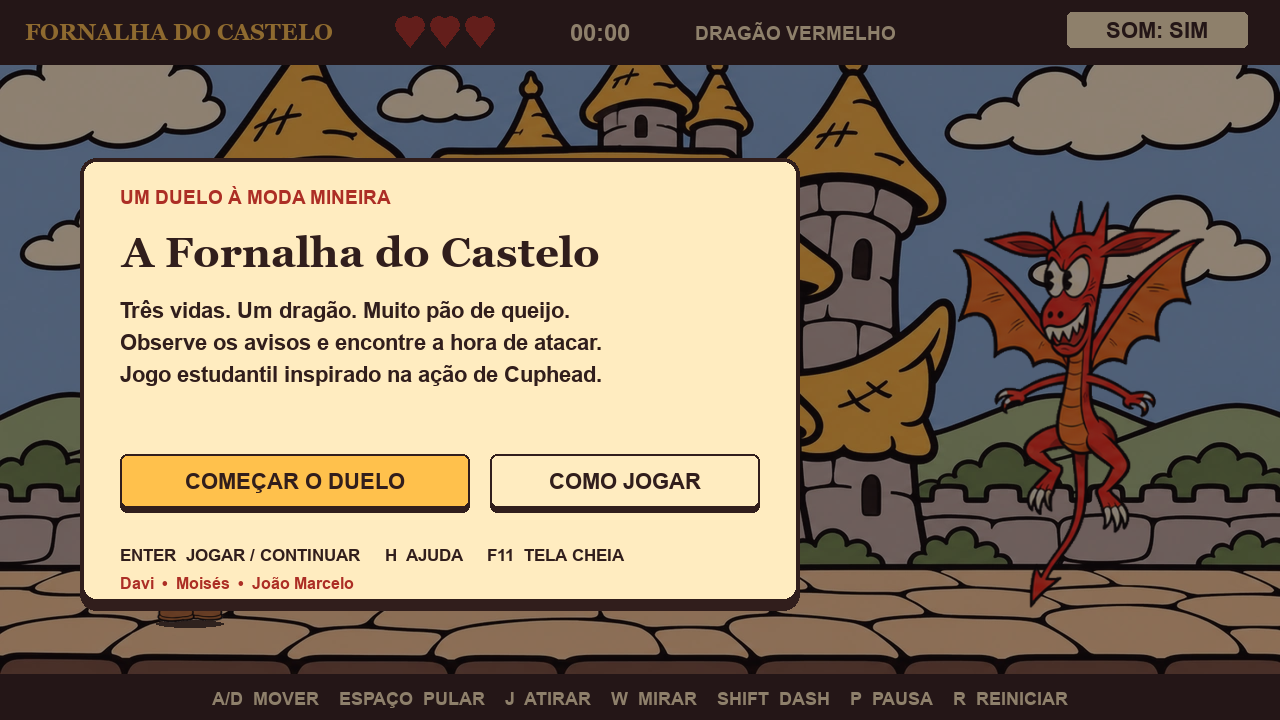
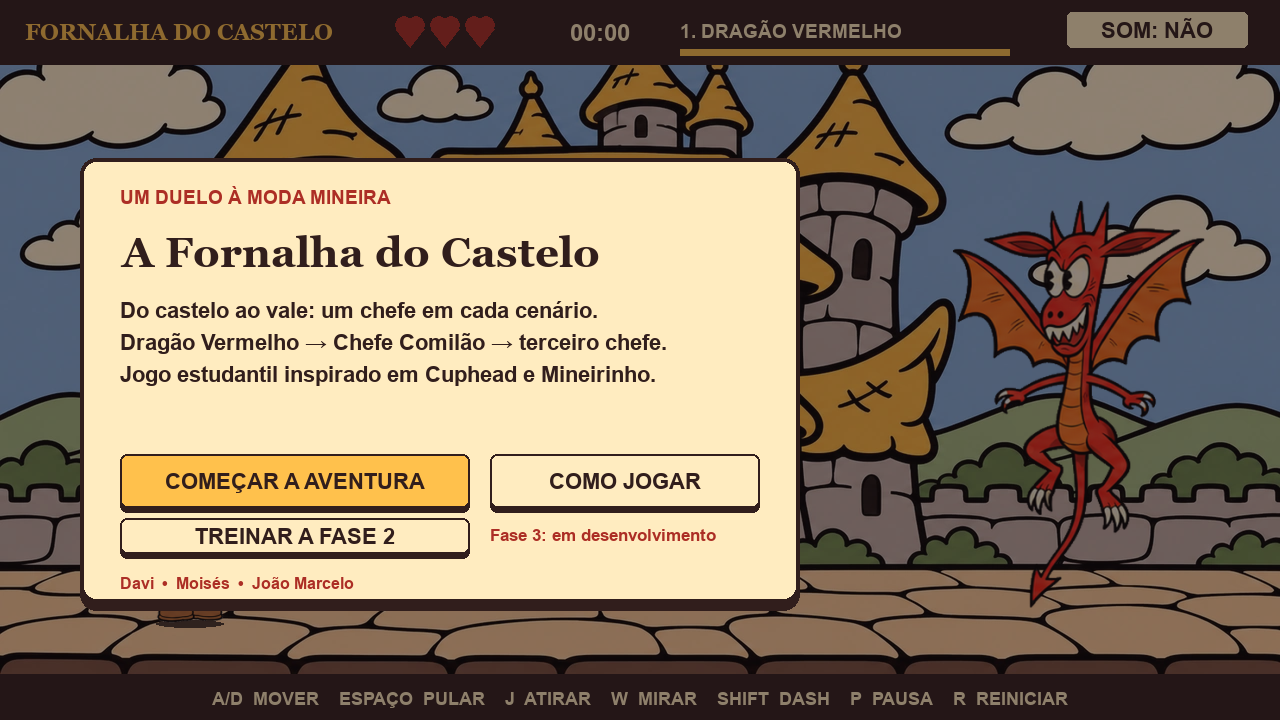
Documenta divisão da equipe e validação da fase 2

diff --git a/docs/VALIDACAO.md b/docs/VALIDACAO.md
@@ -1,34 +1,29 @@
-# Validação da versão simplificada
+# Validação — Dragão e Chefe Comilão
 
-Data: 22/11/2026. Ambiente local: Windows, Python 3.12.14, Pygame 2.6.1 e SDL 2.28.4. Foram usados dispositivos virtuais do SDL para vídeo e áudio.
+Data: 22/11/2026. Ambiente local: Windows, Python 3.12.14 e Pygame 2.6.1. Vídeo/áudio virtuais do SDL.
 
-## Testes de comportamento
+## Resultado
 
 Comando: python -m unittest discover -s tests -v
 
-Resultado: **36 testes aprovados**, sem falhas ou testes ignorados.
+**47 testes aprovados, sem falhas ou testes ignorados.** Os 36 casos anteriores continuam aprovados, com as expectativas do menu atualizadas para incluir a história. Outros 11 casos verificam a fase 2 e a passagem entre cenários.
 
-- 26 testes das regras e sprites: grupos reais do Pygame, movimento e limites, pulo variável e antecipado, dash, dano e vidas, pausa, cadência e origem dos tiros, mira, remoção de projéteis, colisões, transformação, vitória e nove padrões nos quatro níveis.
-- 10 testes da aplicação: carregamento dos recursos e telas, início/pausa/reinício, ajuda, foco, redimensionamento/cliques, tela cheia, preferências, recorde e encerramento.
+Cobertura nova: avanço somente após vitória; ausência de um terceiro chefe jogável; seis ataques sempre precedidos por aviso; direções dos raios fixadas no aviso; língua baixa causa um único dano; língua alta passa sobre jogador no chão; pulo e dash evitam a língua baixa; faixa segura dos espinhos; remoção de ataques; segunda forma; pausa; reinício na fase atual; telas; transparência das artes; separação do recorde do dragão.
 
-Além dos casos individuais, a suíte joga até a vitória em 30, 60 e 120 atualizações por segundo, com uma transformação e 360 acertos. Os testes de esquiva conferem pulo e dash no sopro baixo e permanência no chão/agachamento no sopro alto.
+As duas lutas chegaram à vitória com 360 acertos em 30, 60 e 120 atualizações por segundo. Nesses casos foi ativada proteção prolongada somente no teste: isso verifica o fluxo, não a dificuldade para uma pessoa. O jogo normal começa com três vidas.
 
-## Execução integrada e imagens
+## Verificação visual
 
-Um roteiro com main.update_game e main.draw_screen percorreu a luta com proteção prolongada apenas no teste. A vitória ocorreu com 360 acertos em aproximadamente 34,48 segundos no cronômetro da partida. Foram amostrados 544 quadros de desenho nessa execução.
+Foram renderizados e inspecionados menu, história, dragão, corpo do Comilão, aviso dos raios, língua estendida, segunda forma e vitória da fase 2. Também foram renderizados os espinhos e seus avisos. Capturas representativas estão em docs/preview.png, docs/comilao-corpo.png e docs/comilao-boca.png.
 
-Também foram renderizadas as 36 combinações de nove padrões x quatro níveis, além de menu, ajuda, pausa, derrota, vitória e transformação. O sopro foi exercitado com o jogador próximo ao chefe para conferir que sua imagem fica limitada ao tamanho da arena.
+Um roteiro adicional usou main.update_game e main.draw_screen por 180 quadros na fase 2, incluindo tiros e espinhos: média local de 15,67 ms por quadro; percentil 95 de 25,44 ms. É uma amostra local com saída de vídeo virtual, não uma garantia de desempenho em todos os computadores.
 
-Foram inspecionadas imagens do menu, da segunda forma, do sopro e do leque. docs/preview.png é uma captura produzida pelo Pygame.
+## Pacote ZIP
 
-## Diferenças intencionais em relação à versão anterior
+O pacote final contém 60 arquivos. Foi extraído em uma pasta nova; os 60 conteúdos foram comparados por SHA-256 com a pasta de origem. Os 47 testes também passaram na cópia extraída.
 
-Esta edição usa uma atualização por quadro e colisões por pygame.Rect. Antes, o motor usava subpassos internos e alguns testes geométricos próprios de círculo/segmento. Os controles, os nove padrões, os parâmetros principais e o objetivo foram mantidos; não se promete uma simulação numericamente idêntica em cada quadro. As bordas das colisões e alguns instantes de movimento podem variar ligeiramente.
+## Limites e pendências
 
-As antigas referências numéricas do JavaScript não foram apresentadas como testes desta versão. A suíte atual verifica comportamentos do jogo após a simplificação.
+A execução virtual não substitui jogar com teclado físico, ouvir volumes e avaliar dificuldade com pessoas. O grupo precisa testar nos três computadores e gravar o vídeo. O iniciador Windows requer Python e internet na primeira instalação. A terceira fase e o encerramento completo ainda não estão implementados.
 
-## Conferência do grupo antes da entrega
-
-A execução virtual não substitui jogar com teclado físico, ouvir os volumes, avaliar a dificuldade com pessoas e testar a instalação no computador da apresentação. O iniciador Windows depende de Python disponível no computador; Python 3.12 é a versão recomendada e testada diretamente.
-
-O fluxo do GitHub está preparado para Windows/Linux com Python 3.10 e 3.12, mas a execução remota só será confirmada depois da publicação. A validação local foi feita em Windows/Python 3.12. O pacote não foi publicado no GitHub nesta tarefa.
+Os resultados acima são locais. A publicação em uma branch não significa que o jogo foi integrado à main ou que uma verificação remota tenha sido executada.

diff --git a/docs/ARTES_COMILAO.md b/docs/ARTES_COMILAO.md
@@ -1,0 +1,15 @@
+# Artes da fase 2
+
+Geradas em 22/11/2026 com a ferramenta de imagens integrada do Codex/ChatGPT. Referências: desenhos de formas e ataques fornecidos pelo grupo; captura de Mineirinho para o vale; artes existentes para manter o estilo. As folhas têm 4 colunas e 2 linhas, recortadas por load_sheet e ajustadas para 442 × 442. As artes não são sprites oficiais.
+
+## comilao-corpo
+
+Use case: stylized-concept. Generate a production game sprite sheet, exactly 4 columns and 2 rows of equal square cells, canvas 2048x1024, transparent background. Reference image 1 defines this monster's FIRST FORM identity only, ignore attack diagrams and red text; reference 2 gives existing game's thick black outlined hand-drawn cartoon color style. Eight frames of the SAME green Chefe Comilão alien facing LEFT: pear round green body, huge toothy belly mouth, long pink tongue tucked inside mouth, single eye on tall slender stalk with three leaf hairs, two dangling arms and large bare feet. NOT a human chef. Top row four subtle idle poses; bottom row eye charged, mouth wide windup, attack mouth open, recovery. Every monster wholly contained in its cell, same size and anchor: feet on y=480 within each512pxcell, eye at y=65, no crossing cell boundaries. Flat warm cel shading, dark green body with lime highlights, ivory teeth, pink mouth. No drawn long tongue outside body because tongue is animated separately. No text, labels, grid, effects, scenery, watermark. True alpha background.
+
+## comilao-boca
+
+Use case: stylized-concept. Production game sprite sheet exactly 4 columns and 2 rows of equal square cells, canvas2048x1024 transparent background. Reference1 defines the SECOND FORM of Chefe Comilão only (top sketch), ignore diagrams/red marks. Reference2 defines existing game's black outlined warm flat cartoon style. Eight frames same giant green detached jaw monster facing LEFT. Huge upper curved green jaw like a dome, gaping dark mouth with triangular ivory teeth, lower thin jaw resting on ground; NO arms NO legs, pink tongue tucked within mouth, detached large single eyeball floats above with 3 trailing leaf hairs. Mouth is low occupying lower2/3 ofeachcell. Top row4subtleidleframes, bottomrow eye charging,mouthwindup,mouthopenattack,recovery. Keep identical position/size acrosscells: lowerjawgroundbaseliney480, floatingeyearoundy110 in each512squarecell, keepentirecharacterwithincell. Dark green limecelshading thickblackline, ivoryteeth,pinkmouth. No long protruding tongue, it is animated separately. No text, labels, grid, watermark, scenery. True alpha.
+
+## vale-comilao
+
+Use case: stylized-concept. Create side-view 2D boss arena background 16:9 landscape 1536x864. Reference1 provides landscape identity: brown rocky canyon ridges, green grass, stormy dusty pinkgray cloudy sky; do NOT include either character from that screenshot. Reference2 provides game's existing hand-drawn ink outlined cartoon aesthetic with warm flat celshading. Layered sweeping rounded canyon rock walls and distant jagged ridges under swirling dusty rose thunderclouds. Clear uncluttered arena, characters will be placed separately left and right. Flat grassy platform with exact horizontal walkable TOP at86.4% imageheight (y746of864); darkearthcrosssectionbelow. Keepforegroundemptyandwide, no obstacles, no trees hidingplayer, nocharacters, no UI, no text,no watermark. Soft painterlyskybutsimpleboldinkrockcontours.

diff --git a/docs/DIVISAO_E_PRAZOS.md b/docs/DIVISAO_E_PRAZOS.md
@@ -4,10 +4,10 @@ Equipe: Davi, Moisés e João Marcelo. Entrega: segunda-feira, 23/11/2026, até 
 
 ## Moisés — regras e sprites
 
-Arquivos: config.py, sprites.py, engine.py e attacks.py.
+Arquivos: config.py, sprites.py, engine.py attacks.py e comilao.py.
 
 1. Estudar Bread.update, Player.update, GameModel.step e check_collisions.
-2. Conferir pulo, dash, dano e os nove padrões nas duas formas.
+2. Conferir pulo, dash e dano nos dois chefes; ajustar os tempos de aviso e os seis ataques do Comilão.
 3. Fazer melhorias e correções reais de jogabilidade, explicando o problema e o resultado no pull request.
 4. Ao mudar uma regra, revisar os testes correspondentes.
 
@@ -19,17 +19,17 @@ Arquivos: assets.py, scene.py, audio.py, assets/player/, demais imagens e assets
 
 1. Estudar load_assets, load_sheet, player_pose e o desenho da interface.
 2. Conferir animações, leitura dos avisos, alinhamento do tiro e volume dos WAV.
-3. Fazer uma melhoria visual ou sonora real e mostrar como verificar seu resultado.
+3. Revisar as artes do Comilão nas duas formas, a origem dos raios e da língua e as marcas de espinhos; registrar uma melhoria visual ou sonora real.
 4. Completar CREDITOS.md com a procedência das artes e de novos sons.
 
 Revisor: João Marcelo. As escolhas de animação ficam em assets.py; as regras de movimento continuam com Moisés.
 
 ## João Marcelo — aplicação e entrega
 
-Arquivos: main.py, requirements.txt, INICIAR_WINDOWS.bat, documentação e .github/.
+Arquivos: main.py, requirements.txt, INICIAR_WINDOWS.bat, documentação.
 
 1. Estudar initialize, game_screen, handle_event, update_game e draw_screen.
-2. Conferir início, pausa, ajuda, reinício, tela cheia e cliques com a janela redimensionada.
+2. Conferir menu → história → dragão → Comilão, treino da fase 2, pausa, derrota, repetição da fase atual, ajuda e cliques com janela redimensionada.
 3. Fazer uma melhoria real no fluxo ou corrigir um problema da instalação/interface.
 4. Coordenar integração, gravação do vídeo e documentação final; cada colega corrige sua própria parte.
 
@@ -46,7 +46,7 @@ Revisor: Moisés.
 | Segunda, 10h–11h | Conferir versão remota, acesso do professor, vídeo e link do Blackboard. |
 | Segunda, 11h–12h | Margem para imprevistos na entrega. |
 
-Não iniciar os chefes II e III nesse intervalo. Priorizar uma luta completa e estável.
+O escopo atualizado inclui página inicial, introdução narrativa e três fases, começando pelo dragão. Preparar a progressão entre fases e compartilhar movimento, tiro, colisões e vidas. A fase 2 já tem o Comilão das referências do grupo; a fase 3 ainda precisa ser definida e implementada. Implementar e testar cada etapa antes de integrá-la, mantendo uma versão jogável. A divisão por áreas acima continua como referência técnica; a liderança de cada fase deve ser combinada pelo grupo.
 
 ## Checklist do grupo
 

diff --git a/docs/ARQUITETURA.md b/docs/ARQUITETURA.md
@@ -6,7 +6,7 @@ initialize carrega o jogo. game_screen contém o loop. handle_event cuida da jan
 
 O dicionário ui guarda janela, relógio, tela de desenho, botões, preferências e referências ao jogo e aos recursos. O arquivo preferences.json fica na pasta de dados do usuário, fora do repositório. Para testes, FORNALHA_SAVE_DIR define outra pasta.
 
-## Moisés — engine.py, sprites.py, attacks.py e config.py
+## Moisés — engine.py, sprites.py, attacks.py, comilao.py e config.py
 
 GameModel cria o jogador, o chefe e seus grupos. Os grupos shots, fire e beams representam tiros, bolas de fogo e sopros. Os grupos chamam update nos seus sprites; a apresentação chama draw.
 
@@ -16,7 +16,11 @@ step recebe dt em segundos e controles left, right, up, down, jump, shoot e dash
 
 attacks.py guarda os nove padrões, seus avisos e os disparos agendados. Um aviso registra a direção; a bola gigante e o sopro não perseguem o jogador depois de anunciados.
 
-Estados: title, intro, playing, transform, paused, dead e victory. As fases de ataque 1 e 2 usam o corpo do dragão; 3 e 4 usam a cabeça. A transformação passa do dia para a noite e limpa ataques antigos.
+Estados: title, story, intro, playing, transform, paused, dead e victory. story é a introdução narrativa; intro é a chamada curta antes de cada luta. As fases de ataque 1 e 2 usam o corpo do dragão; 3 e 4 usam a cabeça. Na fase do dragão, a transformação passa do dia para a noite. As duas transformações limpam ataques antigos.
+
+Atenção aos dois números: stage_index seleciona o cenário (0 dragão, 1 Comilão); boss.phase seleciona o nível de ataque dentro de cada luta (1/2 corpo, 3/4 segunda forma). Não são a mesma coisa. start(índice) começa um cenário com três vidas, start_story abre a narrativa e next_stage só avança após uma vitória. A fase 3 ainda não tem implementação.
+
+comilao.py contém Comilao (subclasse de Boss), EyeRay, Tongue e Spike. As regras chamam update_comilao somente no segundo cenário. Língua e raios usam Rect.clipline nos mesmos segmentos desenhados, com uma margem para a espessura; os espinhos usam hitbox. Os avisos registram os pontos antes do disparo e não seguem o jogador. draw_comilao_warning é a única função de apresentação específica deste módulo; Davi pode ajustá-la em acordo com Moisés.
 
 ## Davi — assets.py, scene.py e audio.py
 

diff --git a/docs/GUIA_DA_AULA.md b/docs/GUIA_DA_AULA.md
@@ -10,7 +10,8 @@ Referência: https://insper.github.io/DesignDeSoftware/pygame/handout/.
 4. sprites.py: veja primeiro Bread, depois Fire, Player, Boss e Flame.
 5. engine.py: criação dos grupos, atualização, colisões, vida e estados.
 6. attacks.py: comece pelo caso fan, depois leia os outros padrões.
-7. scene.py e audio.py: desenho de interface e reprodução dos sons.
+7. comilao.py: compare os ataques e sprites da fase 2 com os do dragão.
+8. scene.py e audio.py: desenho de interface e reprodução dos sons.
 
 ## Relação com o exemplo da aula
 
@@ -26,8 +27,8 @@ Referência: https://insper.github.io/DesignDeSoftware/pygame/handout/.
 | Remover uma bala com kill | Bread.update e Fire.update |
 | spritecollide e groupcollide | GameModel.check_collisions |
 | pygame.mixer.Sound | audio.load_sounds |
-| Estados do jogo | title, intro, playing, transform, paused, dead e victory |
-| Separação por arquivos | main, config, assets, sprites, engine, attacks, scene e audio |
+| Estados do jogo | title, story, intro, playing, transform, paused, dead e victory |
+| Separação por arquivos | main, config, assets, sprites, engine, attacks, comilao, scene e audio |
 
 ## Um quadro do jogo
 
@@ -59,7 +60,9 @@ Há uma atualização por quadro, sem subpassos internos. O limite de 0,05 segun
 
 O jogo mantém trigonometria para mirar e fazer ondas, aceleração/gravidade para o salto, uma curta tolerância para pular perto do chão, spritesheets, persistência em JSON e ajuste da imagem ao tamanho da janela. Essas partes são necessárias para manter esta proposta de jogo e estão separadas em funções que podem ser estudadas individualmente.
 
-Não é uma cópia literal do Asteroids do handout. É a mesma estrutura básica aplicada à luta contra o dragão.
+Não é uma cópia literal do Asteroids do handout. É a mesma estrutura básica aplicada às lutas contra o dragão e o Comilão.
+
+Na segunda fase, Comilao herda de Boss para reutilizar vida, temporizadores e a transformação. Tongue, EyeRay e Spike também são Sprites. Os dois primeiros usam Rect.clipline nos segmentos do ataque; os espinhos usam hitbox. stage_index escolhe o cenário; boss.phase é o nível de ataque dentro de uma luta.
 
 ## Simplificações desta edição
 
